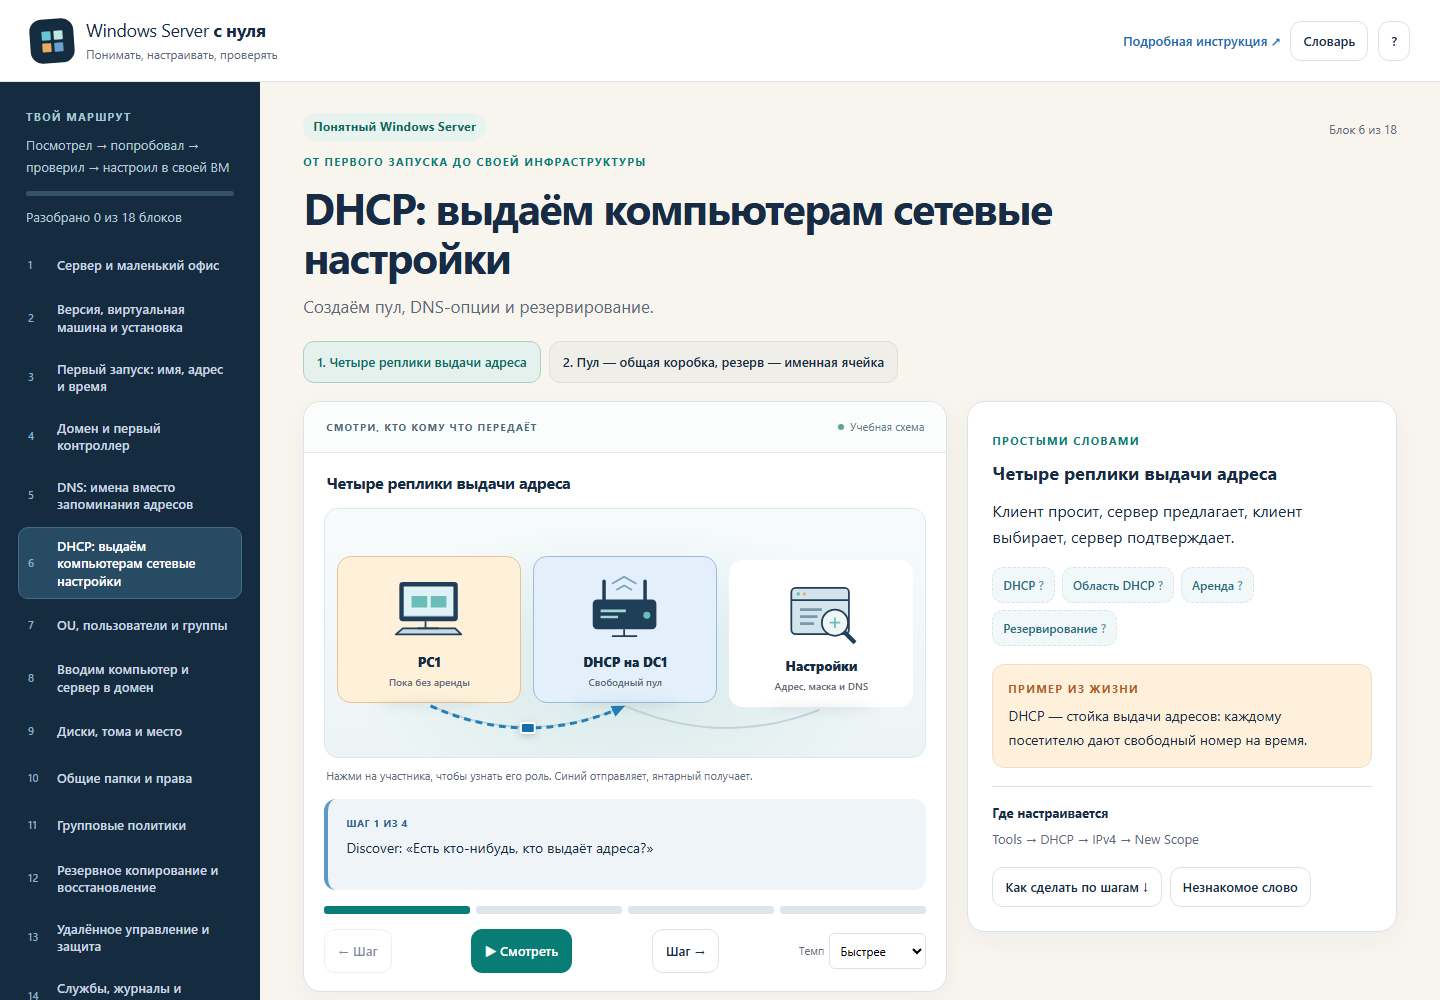
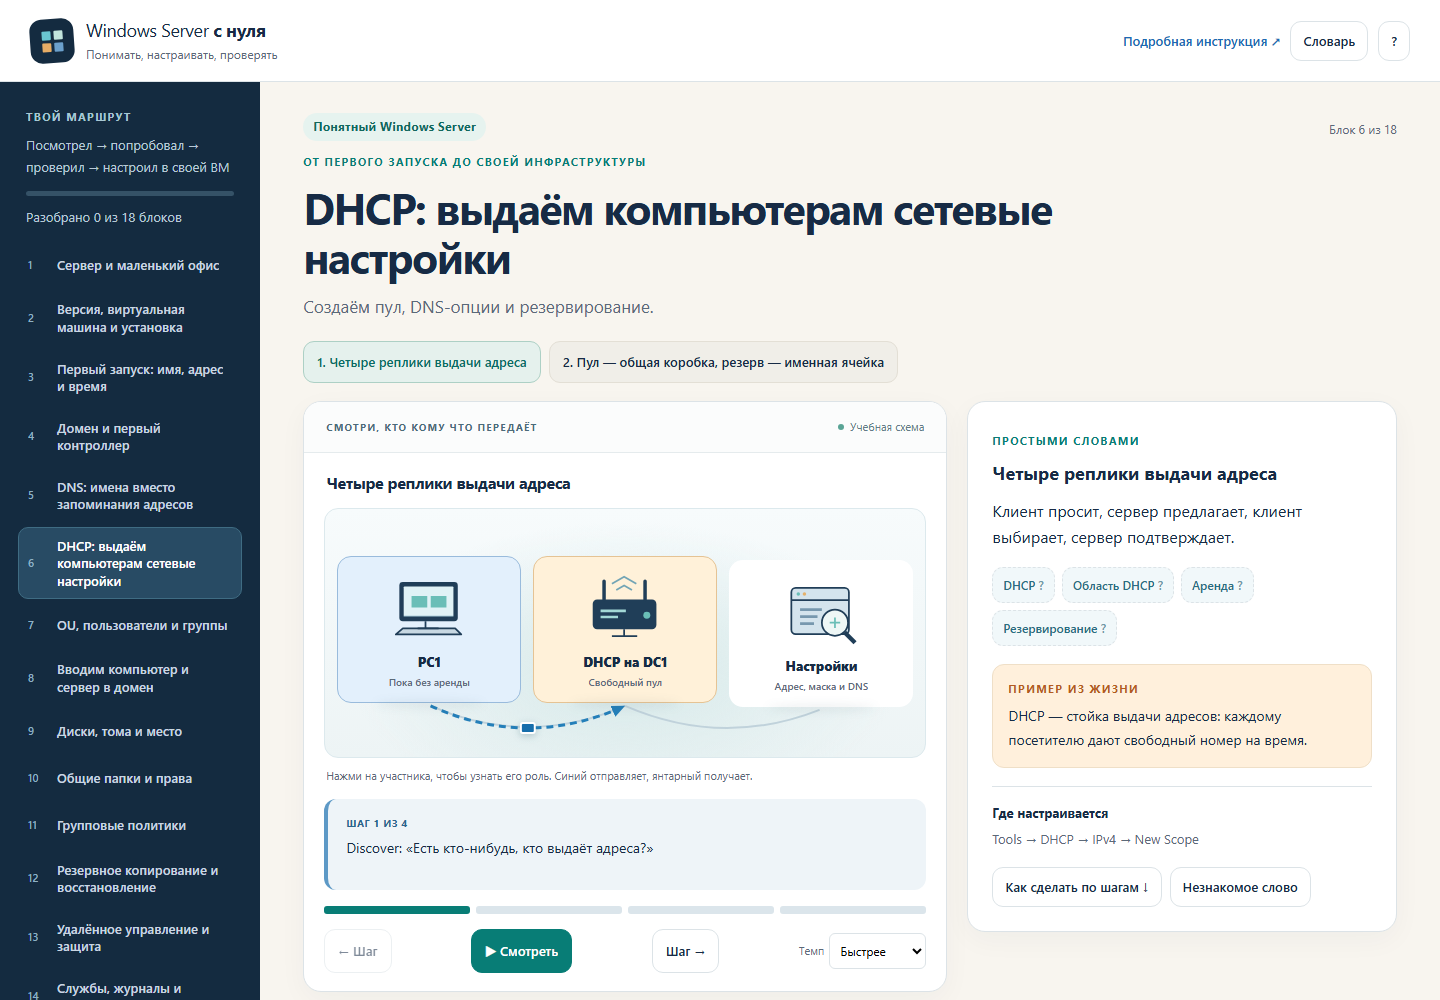
Document published course and verified mobile access

Changed region(s): [[0.2188, 0.558, 0.5, 0.713]]

diff --git a/README.md b/README.md
@@ -1,13 +1,29 @@
 # Windows Server с нуля
 
-Открой **index.html** — это интерактивный курс. Рядом **manual.html** — полная инструкция с меню, командами, проверками и печатью. Оба HTML содержат основные стили и данные внутри и работают из локальной папки без интернета.
+**[Открыть учебник](https://sillkiin.github.io/windows-server-from-zero/)** · [Полная инструкция](https://sillkiin.github.io/windows-server-from-zero/manual.html) · [PDF, 46 страниц](https://sillkiin.github.io/windows-server-from-zero/WINDOWS_SERVER_RU.pdf)
 
-В курсе 18 блоков, 36 анимированных сцен, 18 упражнений, 54 вопроса, итоговые подходы по 15 вопросов, 8 командных миссий и словарь. Прогресс хранится в браузере. «Мой прогресс» позволяет скачать его и перенести на другое устройство.
+Русскоязычный курс для новичка: 18 блоков, 36 анимированных сцен, 18 упражнений, 54 вопроса, итоговые подходы по 15 вопросов, 8 командных миссий и 46 объяснений терминов.
 
-На iPhone удобнее открывать опубликованную HTTPS-версию в Safari. Для размещения подходит GitHub Pages: загрузить содержимое этой папки в отдельный публичный репозиторий и включить Pages для нужной ветки. В этой поставке публикация не выполнялась. После размещения: Safari → Поделиться → На экран «Домой». Для офлайн-режима нужно первое полное открытие с интернетом. На HTTPS и localhost работает service worker; из file:// регистрация не требуется.
+Темы: версии и установка Windows Server, изолированная лаборатория, начальные настройки, AD DS, DNS, DHCP, OU/пользователи/группы, ввод компьютеров в домен, диски, общие папки и права, GPO, резервное копирование, удалённое управление, службы/журналы/обновления, печать/IIS/RDS, Hyper-V и диагностика.
 
-Подписи окон основаны на Desktop Experience. Основной пример: Windows Server 2025, базовые действия подходят для Server 2022 с учётом различий. Все ВМ, имена, пользователи и ответы лаборатории учебные. Материал не запускает команды ОС, не читает пароли и не подключается к серверам. Для реальной практики предусмотрена отдельная изолированная лаборатория.
+В каждом блоке: понятный пример, движение между участниками, пошаговая инструкция с меню и командами, упражнение и микротест. Раздел «Что и где добавляется» помогает быстро найти нужную задачу.
 
-Официальные источники: sources.json. Проверки интерфейса и их ограничения: ПРОВЕРКА.md и verification.json после завершения проверки. Реальная установка Windows Server и работа физических устройств не выполнялись.
+## На iPhone
 
-Полная инструкция для чтения и печати: **WINDOWS_SERVER_RU.pdf**, 46 страниц. Иллюстрации интерфейса: preview-desktop.png и preview-phone.png.
+1. Открой ссылку в Safari с интернетом.
+2. Нажми «Поделиться» → «На экран “Домой”» → «Добавить».
+3. После первого полного открытия основные уроки и инструкция сохраняются для офлайн-запуска. Внешние ссылки Microsoft требуют сети.
+
+Меню «Уроки» открывает курс, лабораторию, тренировку, словарь и прогресс. Разметка, команды и схемы помещаются по ширине телефона. Результаты хранятся только в браузере. Раздел «Мой прогресс» экспортирует и импортирует JSON для переноса на другое устройство.
+
+## Без сайта
+
+Открой index.html в обычном настольном браузере: стили, содержание и программа встроены в HTML. Рядом manual.html — полная инструкция без зависимости от JavaScript; WINDOWS_SERVER_RU.md и WINDOWS_SERVER_RU.pdf — варианты для чтения и печати. Для телефона удобнее опубликованная версия.
+
+## Границы
+
+Основной пример — Windows Server 2025 Standard Desktop Experience; базовые действия подходят и для 2022 с учётом различий. Адреса, имена и ответы командной лаборатории учебные. Сайт не выполняет команды ОС и не подключается к серверам. Настоящие Windows Server, AD, физический принтер и RDS при подготовке учебника не развёртывались. Проверка в WebKit использует браузерную эмуляцию, физический iPhone не участвовал.
+
+## Проверка и источники
+
+Дата: 15 ноября 2026 года. Источники Microsoft: sources.json. Локальные проверки: ПРОВЕРКА.md, verification.json, animation-verification.json, offline-verification.json. Проверка опубликованного сайта: published-verification.json. Файлы ключевых страниц и PDF сверены с локальной поставкой по SHA-256.

diff --git a/ПРОВЕРКА.md b/ПРОВЕРКА.md
@@ -23,6 +23,18 @@
 
 ## Что не выполнялось
 
-Настоящие Windows Server / AD / DNS / DHCP / SMB / RDS / Hyper-V не устанавливались и не перенастраивались. Физические принтеры, iPhone и продуктивная инфраструктура не проверялись. Учебные ответы не служат доказательством выполнения команд ОС. Публичная публикация этой локальной поставки не выполнялась.
+Настоящие Windows Server / AD / DNS / DHCP / SMB / RDS / Hyper-V не устанавливались и не перенастраивались. Физические принтеры, iPhone и продуктивная инфраструктура не проверялись. Учебные ответы не служат доказательством выполнения команд ОС. Учебник опубликован на GitHub Pages; результаты проверки публичной версии приведены ниже.
 
 Подробности и SHA-256 файлов: `verification.json`. Отдельные протоколы: `offline-verification.json`, `animation-verification.json`.
+
+## Публичная версия
+
+URL: https://sillkiin.github.io/windows-server-from-zero/
+
+Репозиторий: https://github.com/Sillkiin/windows-server-from-zero
+
+GitHub Pages публикует main:/ с принудительным HTTPS. Основная сборка завершилась success. С публичной ссылки в Chromium и WebKit проверены все 36 сцен на ширинах 320, 402 и 874 CSS-пикселя, меню и переходы, всплывающие термины, права SMB/NTFS, восемь командных миссий и итоговый тест из 15 вопросов. Переполнение страницы и вложенных элементов в этой матрице не обнаружено.
+
+index.html, manual.html, sw.js, manifest.webmanifest и PDF совпадают с локальными файлами по SHA-256. Проверены управление service worker и наличие страниц в кэше. На публичном сайте в Chromium прошли офлайн-перезагрузка и открытие полной инструкции. Для WebKit фактический офлайн-запуск проверен локально с остановленным сервером; на публичном адресе подтверждены загрузка и заполнение кэша. Физический iPhone и установка на экран «Домой» не проверялись.
+
+Детали: published-verification.json.

diff --git a/ОТКРЫТЬ-НА-ТЕЛЕФОНЕ.md b/ОТКРЫТЬ-НА-ТЕЛЕФОНЕ.md
@@ -1,0 +1,13 @@
+# Windows Server на телефоне
+
+Открой в Safari: https://sillkiin.github.io/windows-server-from-zero/
+
+«Поделиться» → «На экран “Домой”» → «Добавить». После первого полного открытия основные материалы сохраняются для офлайн-запуска. Внешним ссылкам Microsoft нужен интернет.
+
+Начни с блока «Сервер и маленький офис». Для конкретной задачи: «Уроки» → «Что и где добавляется». В каждом блоке нажми «Смотреть», затем «Как сделать по шагам».
+
+Полная инструкция: https://sillkiin.github.io/windows-server-from-zero/manual.html
+
+PDF: https://sillkiin.github.io/windows-server-from-zero/WINDOWS_SERVER_RU.pdf
+
+Прогресс хранится на устройстве. Для переноса: «Уроки» → «Мой прогресс» → «Скачать прогресс».
